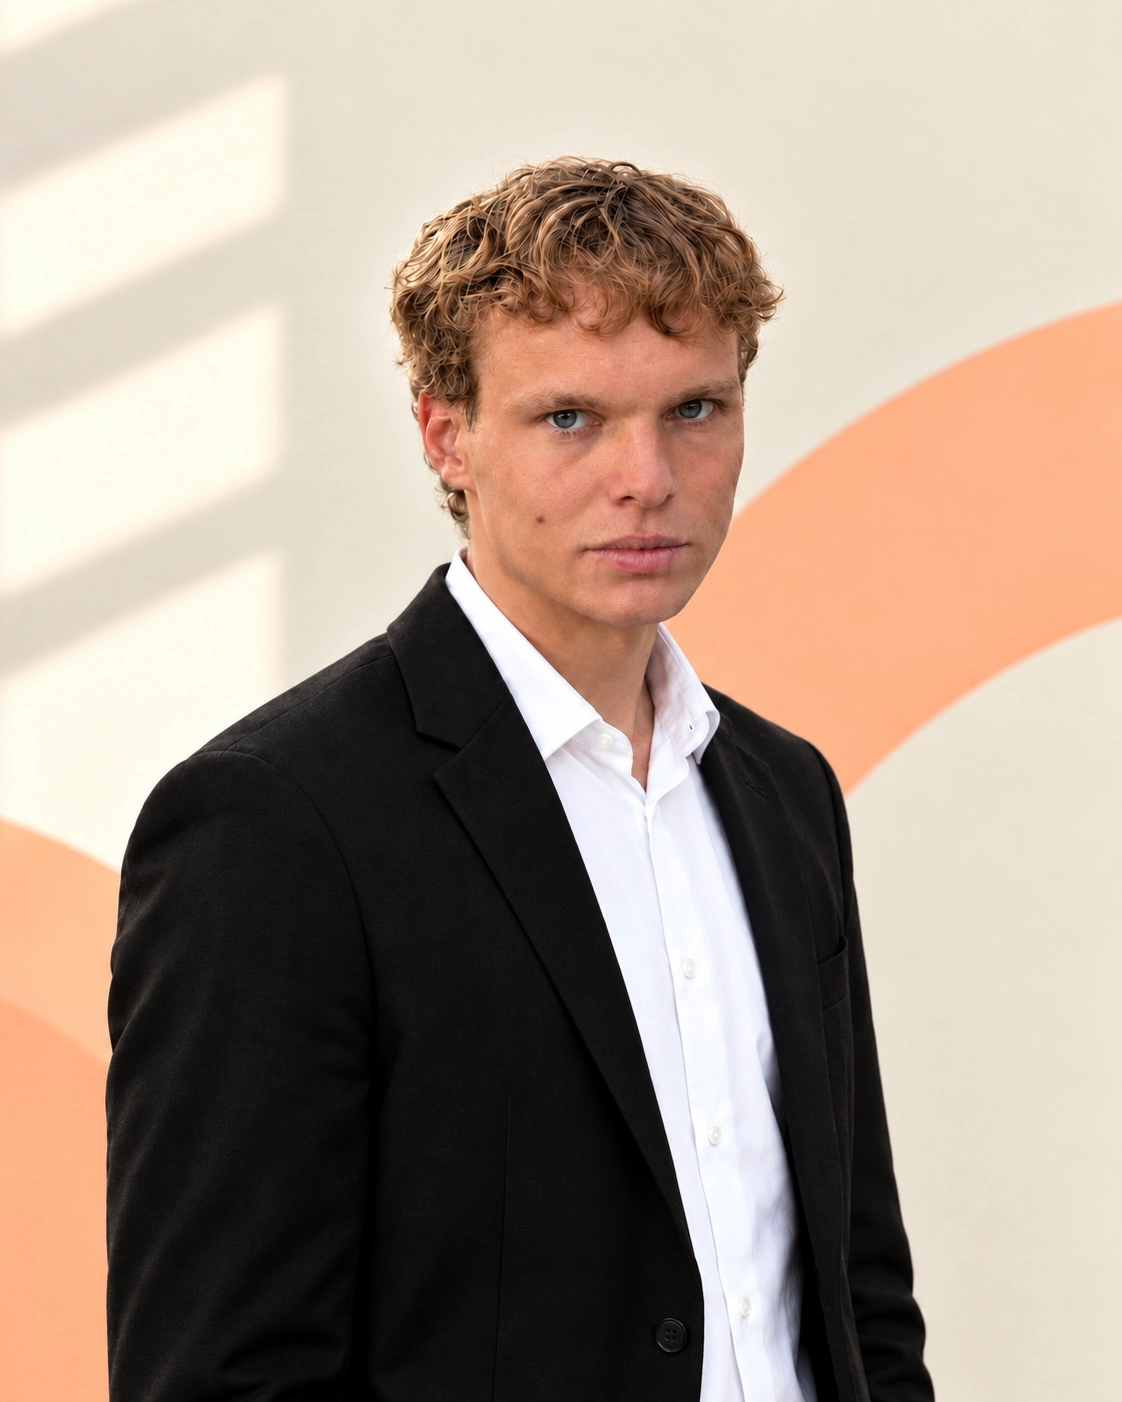
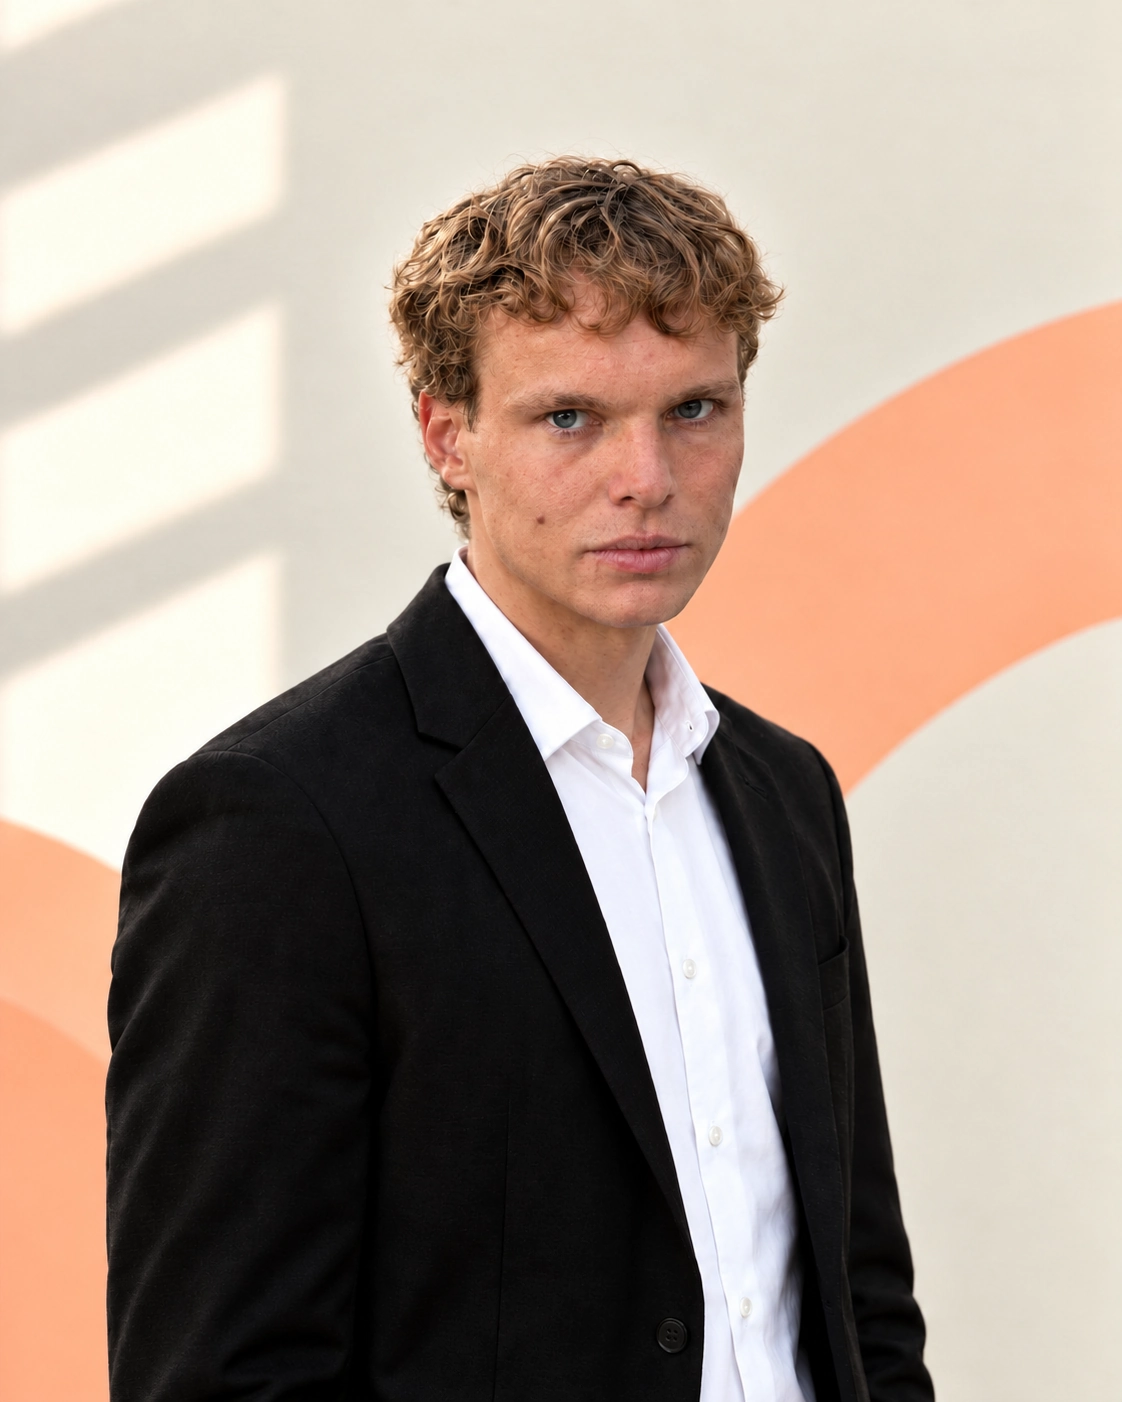
Use natural tutor portraits and supplied Anastasia photo

Changed region(s): [[0.3431, 0.092, 0.6551, 0.3067], [0.6551, 0.6441, 0.6863, 0.6748], [0.6551, 0.2147, 0.6863, 0.2454]]

diff --git a/src/entities/teacher/model/catalog.ts b/src/entities/teacher/model/catalog.ts
@@ -26,7 +26,7 @@ export const teachers: readonly Teacher[] = [
       'Подготовка к ОГЭ',
       'Подготовка к ЕГЭ',
     ],
-    photo: '/images/tutor-informatics.webp?v=20260929d',
+    photo: '/images/tutor-informatics.webp?v=20260929e',
     intro:
       'Имеет опыт работы с учениками как репетитор и куратор: регулярно проводит индивидуальные созвоны, помогает разобраться в сложных темах и выстроить понятный план учёбы. Основное направление — информатика, включая школьную программу, ОГЭ и ЕГЭ. Также помогает с математикой, домашними заданиями и другими школьными предметами.',
     achievements: [
@@ -61,7 +61,7 @@ export const teachers: readonly Teacher[] = [
       'Школьная программа',
       'Домашние задания',
     ],
-    photo: '/images/tutor-english.webp?v=20260929d',
+    photo: '/images/tutor-english.webp?v=20260929e',
     intro:
       'Имеет опыт работы с детьми дошкольного, младшего и среднего школьного возраста. Проводит индивидуальные и развивающие занятия, адаптирует материалы под возраст, уровень подготовки и особенности ученика. Основные направления — английский язык, история, начальная школа и помощь со школьной программой. В занятиях делает акцент на понятном объяснении, диалоге и спокойной атмосфере, в которой ученик может свободно задавать вопросы и не бояться ошибок.',
     achievements: [
@@ -94,7 +94,7 @@ export const teachers: readonly Teacher[] = [
       'Подготовка к ОГЭ',
       'Подготовка к ЕГЭ',
     ],
-    photo: '/images/tutor-anna.webp?v=20260929d',
+    photo: '/images/tutor-anna.webp?v=20260929e',
     intro:
       'Учитель общеобразовательной школы с высшим педагогическим образованием по профилям «Русский язык и литература». Проводит занятия для учеников 5–11 классов: помогает разобраться в школьной программе, укрепить знания по русскому языку и литературе, подготовиться к ОГЭ и ЕГЭ. Сама сдала ЕГЭ по русскому языку на 98 баллов.',
     achievements: [
@@ -125,7 +125,7 @@ export const teachers: readonly Teacher[] = [
       'Домашние задания',
       'Подготовка к ОГЭ',
     ],
-    photo: '/images/tutor-artem.webp?v=20260929d',
+    photo: '/images/tutor-artem.webp?v=20260929e',
     intro:
       'Уверенно знает русский язык и всю школьную программу. Помогает разобраться в правилах, восполнить пробелы и научиться применять теорию на практике — от домашних заданий и текущих тем до подготовки к ОГЭ. В занятиях делает акцент на понятной логике языка, внимательном разборе ошибок и спокойном темпе.',
     achievements: [
@@ -153,7 +153,7 @@ export const teachers: readonly Teacher[] = [
       'Домашние задания',
       'Подготовка к ОГЭ',
     ],
-    photo: '/images/tutor-alexandra-portrait-v2.webp?v=20260929d',
+    photo: '/images/tutor-alexandra-portrait-v2.webp?v=20260929e',
     intro:
       'Более трёх лет помогает ученикам 5–11 классов разобраться в химии и биологии, повысить успеваемость и подготовиться к ОГЭ. Все её ученики сдали ОГЭ на «5». Объясняет сложные темы понятным языком и делает яркие конспекты, к которым удобно возвращаться при повторении.',
     achievements: [
@@ -184,7 +184,7 @@ export const teachers: readonly Teacher[] = [
       'Домашние задания',
       'Подготовка к ОГЭ',
     ],
-    photo: '/images/tutor-erlan.webp?v=20260929d',
+    photo: '/images/tutor-erlan.webp?v=20260929e',
     intro:
       'Умеет понятно объяснять сложные темы и находить подход к детям. Помогает устранить пробелы, разобраться с домашними заданиями и системно подготовиться к ОГЭ. В работе сочетает спокойное объяснение, последовательную практику и регулярное закрепление материала.',
     achievements: [
